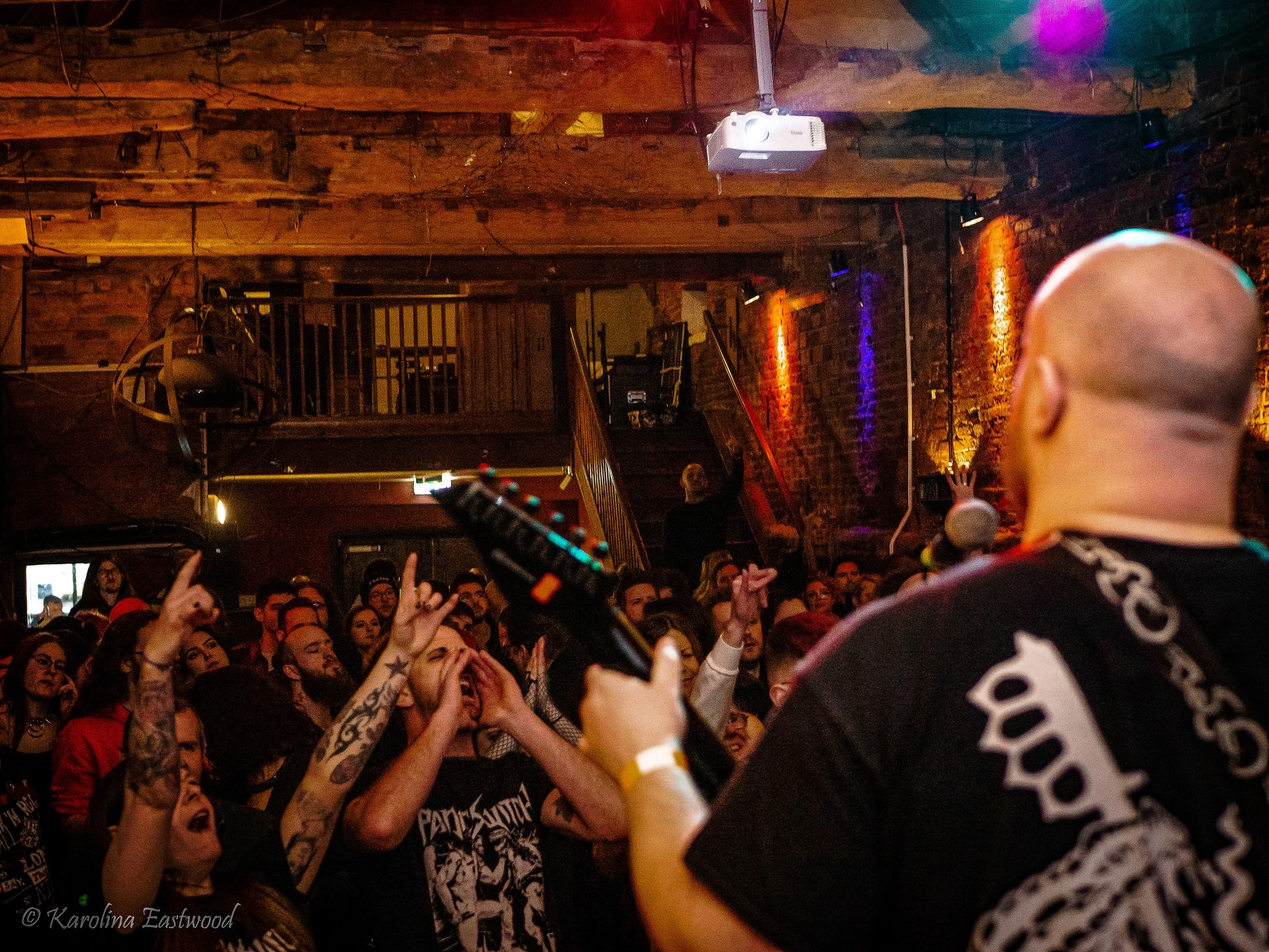
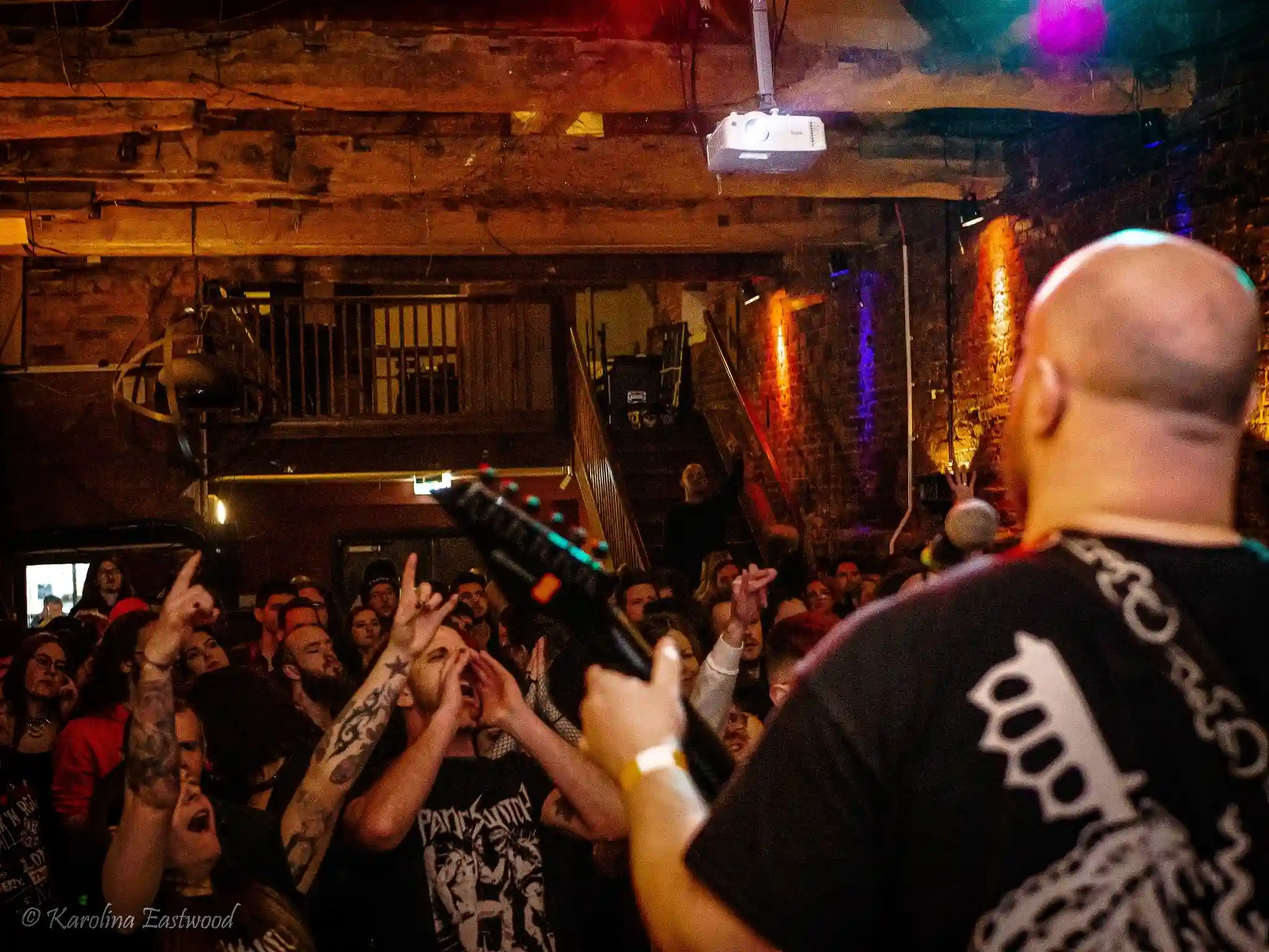
fix: reduce image file sizes

diff --git a/README.md b/README.md
@@ -3,7 +3,7 @@
 
 ![Panic Switch website shown on various websites](assets/images/am-i-responsive-panic-switch-screenshot.jpg)
 
-Deployed Website [Panic Switch](https://danarthur99.github.io/Milestone-Project-1.Panic-Switch-Website/)
+Deployed Website: [Panic Switch](https://danarthur99.github.io/Milestone-Project-1.Panic-Switch-Website/)
 
 This project is a website for our band PANIC SWITCH, a thrash metal band based in Cheltenham, UK.
 
